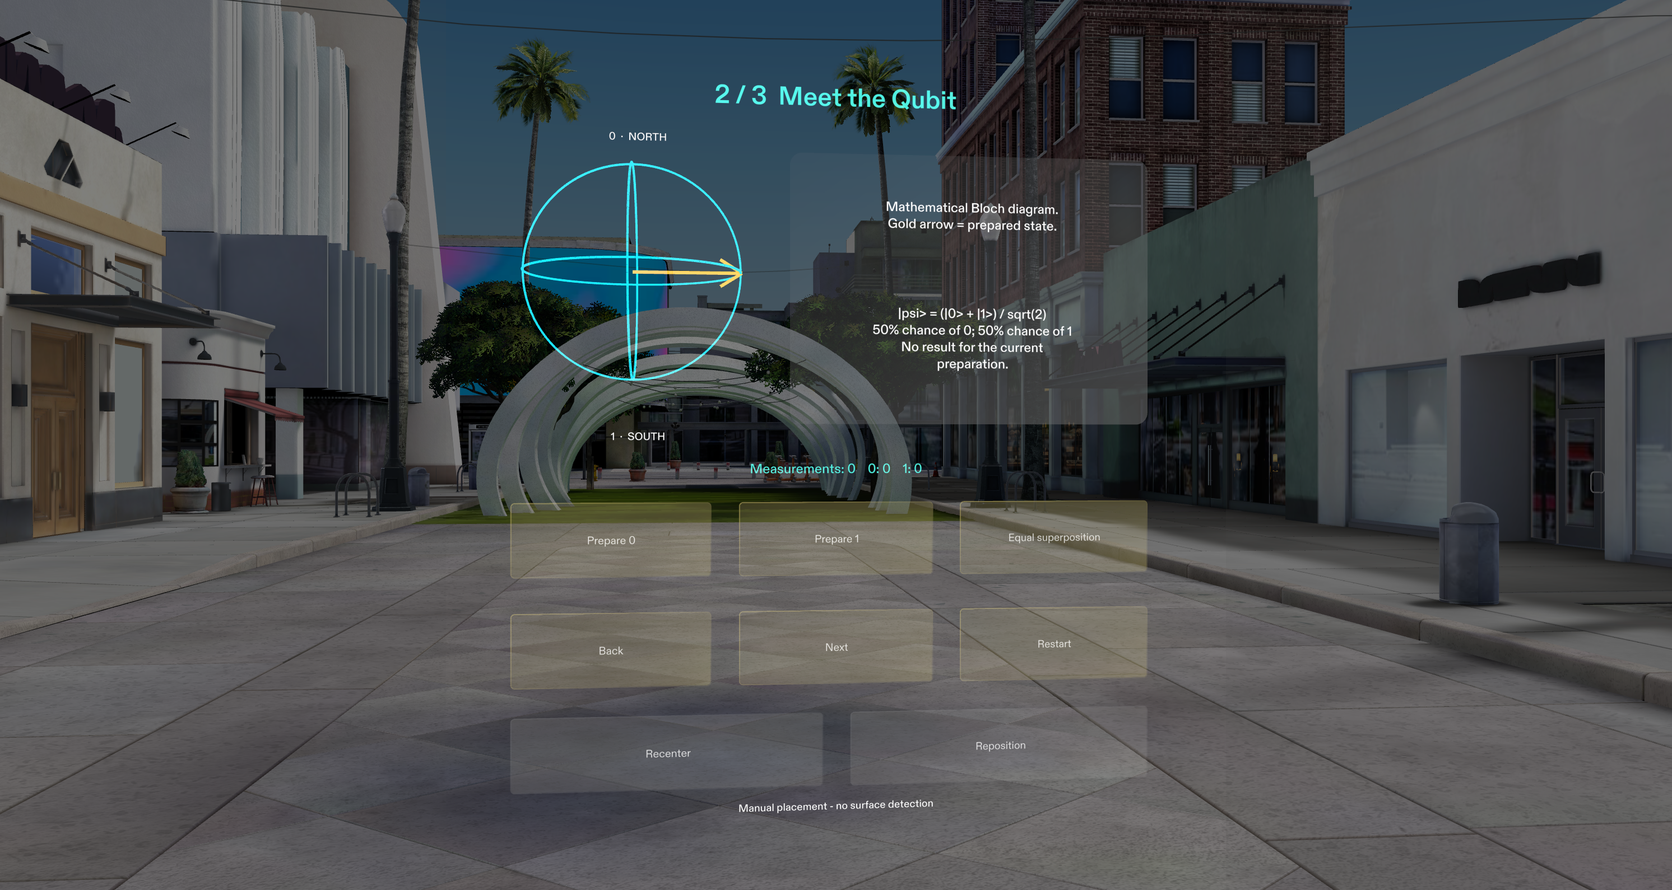
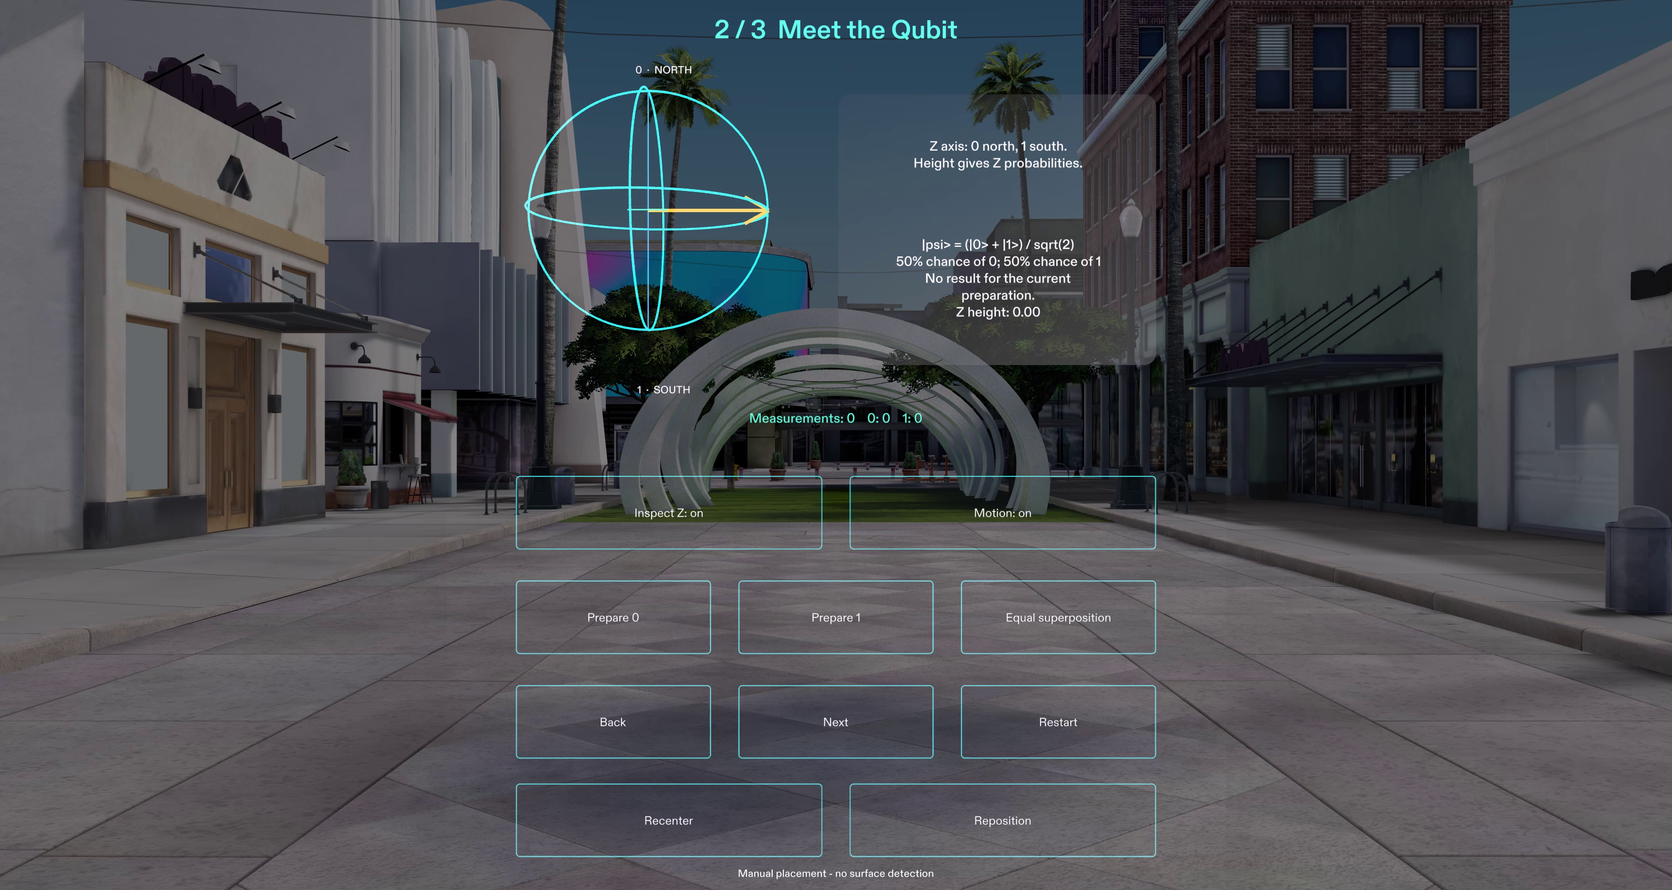
Finish immersive demonstration and verified submission materials

diff --git a/docs/public/DEMO_SCRIPT.md b/docs/public/DEMO_SCRIPT.md
@@ -1,32 +1,74 @@
-# Demonstration narration and shot list
+# Demonstration V3: captions and optional narration
 
-Preserved QAR-008 fallback: **2:45**, with a 15-second margin below three minutes.
-QAR-009 source adds features not depicted here; its new demonstration is in preparation.
-The shot
-boundaries match the silent captioned QAR-008 export. The narration below is
-optional prepared copy; it is not recorded audio or an uploaded video. Use genuine Lens Studio
-preview footage. Read naturally and leave time for the indicated selections.
+The preferred genuine QAR-009 V3 cut is **2 minutes 45 seconds**, 1920 × 1080,
+H.264, 30 fps, silent with English captions. It uses the actual Lens Studio
+preview, supported coordinate-pinch input and the simulated Sunlit Outdoor
+environment. No platform upload is represented as complete. The owner controls
+YouTube publication and Devpost submission.
 
-| Time | Genuine preview actions | Narration |
+Preferred file: `Quantum-AR-Explorer-QAR009-demo-v3.mp4`. The separate silent
+`Quantum-AR-Explorer-QAR009-narration-ready.mp4` has exactly the same shots and
+timing, with title/context disclosure but without explanatory body captions.
+An English SRT is available locally. No spoken audio exists in either export.
+The cues below can guide an owner-approved recorded narrator; they are not a
+claim of recorded narration. Use natural phrasing and allow pauses for selections.
+
+| Time | Genuine preview footage | Learning purpose |
 |---|---|---|
-| 0:00–0:16 | Open on a genuine qubit view. Move the simulated viewpoint around the fixed station. Label this a preview excerpt; the guided lesson follows. | “A miniature quantum laboratory, placed in your surroundings. The viewpoint moves; the laboratory stays put. This is Quantum AR Explorer in the real Lens Studio preview, using a simulated environment.” |
-| 0:16–0:29 | Begin the guided lesson at Meet the Bit. Switch 0 / 1, then Next. | “The lesson starts with a classical bit: one definite value, zero or one. Change it, then move on to a qubit.” |
-| 0:29–0:54 | Prepare 0, 1, then equal superposition. Keep the diagram, poles and probabilities visible. | “The Bloch sphere is a mathematical state diagram. Zero points north; one points south. An equal superposition points around the equator. Measuring that state in this basis has a fifty percent chance of either result.” |
-| 0:54–1:12 | Measure equal superposition. Pause on the actual outcome. Measure again without preparing. | “Measurement gives one definite result and collapses the state. Measure again without preparing, and the result stays the same. This is different from starting a fresh experiment.” |
-| 1:12–1:19 | Run ten fresh trials. Pause on the real accumulated counters. | “Fresh trials prepare again. Small samples need not split evenly.” |
-| 1:19–1:56 | Open Reposition, move deliberately, choose Done and Recenter. Preserve the experiment. | “The placement controls move the whole teaching station without resetting the experiment. Recenter brings it in front of the viewpoint. Placement is manual; the Lens does not recognize a table or surface.” |
-| 1:56–2:23 | Show an incorrect challenge answer and its explanation, then the correct answer and completion. | “A short challenge checks the idea. Mistakes receive an explanation and another try. Fresh equal superpositions give each outcome a fifty percent chance. The goal is understanding through experimentation.” |
-| 2:23–2:29 | Restart; show the cleared counters and first stage. | “Restart clears the lesson and results for the next learner.” |
-| 2:29–2:45 | Finish on a genuine quantum-state view. | “Prepare. Measure. Discover. A difficult concept becomes an experiment you can explore. This is a classical simulation; physical glasses testing remains future work.” |
+| 0:00–0:16 | Labeled optional-lab phase excerpt and genuine simulated-viewpoint movement | Same measurement odds can describe different states; station fixed in world space. |
+| 0:16–0:28 | Meet the Bit; switch 0 / 1 | A classical bit has one definite value. |
+| 0:28–0:52 | Prepare qubit 0, 1 and equal superposition | Mathematical Bloch diagram and Z-basis probabilities. |
+| 0:52–1:04 | Measure, then repeat; actual results 0, 0 | Measurement collapses the state; repeating preserves that result. |
+| 1:04–1:14 | Ten fresh trials; real cumulative counts 12 / 7 / 5 | Fresh trials prepare again; these totals include the earlier two measurements. |
+| 1:14–1:22 | Reposition, Done, Recenter | Manual placement preserves the experiment; no surface recognition. |
+| 1:22–1:42 | Challenge, correction and completion | Feedback addresses a probability misconception. |
+| 1:42–2:26 | Optional Gate Lab: reset to 0, compare H-Z-H with H-H; measure 1 then 0 | A relative-phase difference changes a later outcome. |
+| 2:26–2:34 | Return to preserved lesson, then Restart | Independent lab state; clear recovery for another learner. |
+| 2:34–2:45 | Qubit superposition closing view | Prepare, measure and discover; classical simulation and untested glasses. |
 
-Do not narrate a predetermined 0 or 1 for a superposition outcome. Let the actual
-result appear. Use the current visible labels; open the additional control page
-when required. Do not hide a failed selection with a claim it worked. Restart
-before another take if the sequence diverges.
+| Time | English caption / optional narration cue |
+|---|---|
+| 0:00.0–0:05.0 | Same odds. Different states. (Optional lab excerpt) |
+| 0:05.0–0:10.0 | Quantum computing can feel abstract. |
+| 0:10.0–0:16.0 | Make it an experiment in your surroundings. |
+| 0:16.0–0:22.0 | A classical bit has one definite value: 0 or 1. |
+| 0:22.0–0:28.0 | Change the bit, then explore a qubit. |
+| 0:28.0–0:34.0 | A mathematical state diagram: 0 north, 1 south. |
+| 0:34.0–0:43.0 | Prepare 0 or 1 for a certain Z-measurement outcome. |
+| 0:43.0–0:49.0 | Equal superposition predicts 50% for each Z result. |
+| 0:49.0–0:52.0 | Now measure the prepared state. |
+| 0:52.0–0:58.0 | Measurement returns a definite result and collapses the state. |
+| 0:58.0–1:04.0 | Repeat without preparing: the outcome stays 0. |
+| 1:04.0–1:09.0 | Fresh trials prepare again for each measurement. |
+| 1:09.0–1:14.0 | Totals: 7 zeros and 5 ones, including the earlier two measurements. |
+| 1:14.0–1:22.0 | Manual placement preserves the experiment. No surface detection. |
+| 1:22.0–1:29.0 | Try a prediction; mistakes get an explanation and a retry. |
+| 1:29.0–1:35.0 | Fresh equal superpositions have 50% for each outcome. |
+| 1:35.0–1:42.0 | Three stages explored. An optional discovery follows. |
+| 1:42.0–1:50.0 | Optional Gate Lab: reset to 0, then explore. |
+| 1:50.0–1:55.0 | H creates equal superposition: 50% for either Z result. |
+| 1:55.0–2:01.0 | Z changes relative phase. Z-measurement odds stay 50/50. |
+| 2:01.0–2:06.0 | Apply another H to make outcome 1 certain. |
+| 2:06.0–2:10.5 | Measure the prepared state: 1. |
+| 2:10.5–2:18.0 | Reset. Compare H followed by H, without Z. |
+| 2:18.0–2:26.0 | H, H: expect 0, then measure to test it. |
+| 2:26.0–2:30.0 | Return to the preserved beginner experiment. |
+| 2:30.0–2:34.0 | Restart clears the lesson and counters. |
+| 2:34.0–2:39.0 | A difficult idea becomes an experiment you can explore. |
+| 2:39.0–2:45.0 | Prepare. Measure. Discover. Classical simulation; glasses untested. |
 
-The opening excerpt changes the video presentation order, not the product's
-Bit → Qubit → Measurement flow. Record the real viewpoint movement; do not replace
-it with a pan across a still image. Use landscape framing and large, concise
-captions for desktop viewing. Spoken narration is optional; do not claim it is
-recorded when the export is silent. Only measured encoded duration establishes
-the final runtime; adjust the shot boundaries to the actual saved take.
+The opening is a real excerpt reordered for presentation. The product still begins
+Bit → Qubit → Measurement. Idle intervals are trimmed at ordinary speed; the whole
+native frame is scaled without cropping into a landscape canvas with outer captions.
+No interactions, scientific results, or camera motion are fabricated.
+
+The first measurement is not predetermined. This take produced 0, then repeated 0.
+The ten fresh trials produced five of each; cumulative totals became seven zeros
+and five ones across twelve measurements, including the earlier two. A new take
+can differ. H-Z-H from 0 measured 1; H-H from 0 measured 0. Return preserved the
+beginner experiment; Restart cleared it.
+
+The QAR-008 2:45 fallback and all original takes remain preserved. V3 reduces
+placement from 37 seconds to eight, making room for the phase comparison. Its
+advanced section is denser; the learner can finish without entering the optional
+lab. Spoken narration, mobile-device playback and physical glasses are unverified.

diff --git a/docs/public/DEMO_WALKTHROUGH.md b/docs/public/DEMO_WALKTHROUGH.md
@@ -1,39 +1,38 @@
 # Preview demonstration outline
 
-Preserved QAR-008 fallback cut: **2 minutes 45 seconds**, leaving room below the competition's
-[three-minute video limit](https://learn-specs.devpost.com/resources). Record the
-actual Lens Studio preview. Local recording and platform upload are separate steps;
-the owner handles upload. This outline does not represent an uploaded entry.
-It describes the historical fallback; a new demonstration of the QAR-009 features
-is being prepared.
+The preferred genuine QAR-009 V3 cut is **2 minutes 45 seconds**, 1920 × 1080,
+H.264, 30 fps, silent with English captions. It uses the actual Lens Studio
+preview, supported coordinate-pinch input and the simulated Sunlit Outdoor
+environment. No platform upload is represented as complete. The owner controls
+YouTube publication and Devpost submission.
 
-Use the complete [timed narration](DEMO_SCRIPT.md) and
-[recording procedure](RECORDING_GUIDE.md). Actual capture status and measured
-duration, when available, are in [verification](VERIFICATION.md).
-
-| Time | Show | Explain |
+| Time | Genuine preview footage | Learning purpose |
 |---|---|---|
-| 0:00–0:16 | A genuine qubit excerpt and real simulated-viewpoint motion | The laboratory stays in world space as the viewpoint moves. Label the simulated context and excerpt; guided flow follows. |
-| 0:16–0:29 | Meet the Bit; switch 0 / 1 | A classical bit has one definite value. |
-| 0:29–0:54 | Meet the Qubit; prepare 0, 1 and equal superposition | Mathematical Bloch diagram: north is 0, south is 1; equal superposition gives each Z result 50% probability. |
-| 0:54–1:12 | Measure, then repeat without preparing | A definite outcome collapses the state. Repeating that measurement keeps the result. |
-| 1:12–1:19 | Run ten fresh trials; pause on real counters | Each trial prepares again. A small sample need not split evenly. |
-| 1:19–1:56 | Reposition deliberately, Done and Recenter | Manual world placement preserves the experiment; no table recognition. |
-| 1:56–2:23 | Challenge, explanatory feedback and completion | The learner can correct a probability misconception. |
-| 2:23–2:29 | Restart and cleared counters | Another learner can begin the three-stage lesson. |
-| 2:29–2:45 | A strong genuine quantum-state closing view | Prepare, measure and discover. Classical simulation; physical glasses remain untested. |
+| 0:00–0:16 | Labeled optional-lab phase excerpt and genuine simulated-viewpoint movement | Same measurement odds can describe different states; station fixed in world space. |
+| 0:16–0:28 | Meet the Bit; switch 0 / 1 | A classical bit has one definite value. |
+| 0:28–0:52 | Prepare qubit 0, 1 and equal superposition | Mathematical Bloch diagram and Z-basis probabilities. |
+| 0:52–1:04 | Measure, then repeat; actual results 0, 0 | Measurement collapses the state; repeating preserves that result. |
+| 1:04–1:14 | Ten fresh trials; real cumulative counts 12 / 7 / 5 | Fresh trials prepare again; these totals include the earlier two measurements. |
+| 1:14–1:22 | Reposition, Done, Recenter | Manual placement preserves the experiment; no surface recognition. |
+| 1:22–1:42 | Challenge, correction and completion | Feedback addresses a probability misconception. |
+| 1:42–2:26 | Optional Gate Lab: reset to 0, compare H-Z-H with H-H; measure 1 then 0 | A relative-phase difference changes a later outcome. |
+| 2:26–2:34 | Return to preserved lesson, then Restart | Independent lab state; clear recovery for another learner. |
+| 2:34–2:45 | Qubit superposition closing view | Prepare, measure and discover; classical simulation and untested glasses. |
 
-Before recording, refresh the preview, run the native LEAF scenarios, check that the
-whole station and text are visible, and rehearse once without narration. Keep
-private editor panels, account details, logs, keys and machine configuration out
-of the recording. The public planning brief can be shown briefly if time permits.
+The opening is a real excerpt reordered for presentation. The product still begins
+Bit → Qubit → Measurement. Idle intervals are trimmed at ordinary speed; the whole
+native frame is scaled without cropping into a landscape canvas with outer captions.
+No interactions, scientific results, or camera motion are fabricated.
 
-Use supported coordinate-pinch simulation for selections; current mouse
-activation is unverified. Desktop camera movement
-is a demonstration tool; the lesson itself is designed around supported SIK/UIKit
-hand selection without a keyboard or handheld controller.
+The first measurement is not predetermined. This take produced 0, then repeated 0.
+The ten fresh trials produced five of each; cumulative totals became seven zeros
+and five ones across twelve measurements, including the earlier two. A new take
+can differ. H-Z-H from 0 measured 1; H-H from 0 measured 0. Return preserved the
+beginner experiment; Restart cleared it.
 
-Prefer landscape framing and concise captions for desktop viewing. The opening
-excerpt does not change the product's Bit → Qubit → Measurement order. Do not
-substitute a pan across a still image for real viewpoint movement, or claim that
-a simulated environment is a physical table or tested glasses footage.
+The QAR-008 2:45 fallback and all original takes remain preserved. V3 reduces
+placement from 37 seconds to eight, making room for the phase comparison. Its
+advanced section is denser; the learner can finish without entering the optional
+lab. Spoken narration, mobile-device playback and physical glasses are unverified.
+
+See the [caption and narration script](DEMO_SCRIPT.md), [recording procedure](RECORDING_GUIDE.md), and [verification](VERIFICATION.md).

diff --git a/docs/public/VERIFICATION.md b/docs/public/VERIFICATION.md
@@ -1,6 +1,6 @@
-# Verification of the immersive product checkpoint
+# Verification of the immersive product and demonstration
 
-QAR-009, October 23, 2026. The QAR-008 source build and 2:45 landscape video
+QAR-009, October 23–24, 2026 (UTC). The QAR-008 source build and 2:45 landscape video
 remain preserved. This report distinguishes native preview, mathematical checks
 and work requiring physical glasses.
 
@@ -38,7 +38,7 @@ can be disabled or detached to retain the full beginner experience.
 | Check | Result |
 |---|---|
 | Offline application suite | 82 passed, 0 failed, none skipped |
-| Local publication-guard suite | 127 passed, 0 failed |
+| Local publication-guard suite | 146 passed, 0 failed |
 | Original native scientific modules | All seven match source exactly |
 | Additional native-model checks | 20 model cases and 11 stale-callback comparisons passed |
 | Final canonical native LEAF | 5 passed, 0 failed |
@@ -83,11 +83,36 @@ or hardware-performance guarantee.
 
 ## Demonstration and limits
 
-The current retained fallback is `Quantum-AR-Explorer-QAR008-demo-final-v2.mp4`:
-165 seconds, 1920 by 1080, H.264, 30 fps, silent with English captions. Its full
-export decoded successfully and remains hash-verified. It depicts the earlier
-QAR-008 product. A new genuine QAR-009 demonstration is being prepared; it is not
-yet represented as recorded or validated by this product checkpoint.
+The preferred local export is `Quantum-AR-Explorer-QAR009-demo-v3.mp4`:
+165 seconds, 1920 × 1080, H.264, 30 fps, 4,950 frames, silent with English captions.
+The same-timing narration-ready export is also silent and omits explanatory body
+captions. Both complete exports decoded without errors. A separate English SRT
+is available locally. No recorded or synthetic voice, music, or platform upload
+is claimed. The QAR-008 165-second fallback remains hash-verified and preserved.
+
+V3 starts with a labeled genuine phase/spatial excerpt, then follows the complete
+beginner lesson. It trims manual placement from 37 seconds to eight and includes
+the optional H-Z-H versus H-H comparison. Its real first outcome was 0, repeat 0;
+ten fresh trials brought cumulative counts to 12 measurements, seven zeros and
+five ones, including the prior two. The lab measured 1 after H-Z-H from 0 and
+0 after H-H from 0. Return preserved beginner counts; Restart cleared them.
+The original takes, diagnostic capture and all earlier exports are retained.
+
+The first new recording saved an unusable zero-byte file, with actual encoder
+sample-write errors. Its exact cause is unconfirmed. Resizing the preview to a
+verified even-dimension 2984 × 1590 capture, followed by a successful smoke capture,
+restored recording. The healthy full take decoded before editing. Edits remove
+idle intervals at ordinary speed and reorder the labeled opening excerpt. The
+full native frame is scaled without cropping into outer caption margins; results
+and native controls are not composited. Parent inspection covered 29 actual export
+frames across the story, transitions, results and captions. Mobile-device playback
+and physical-viewing legibility are unverified; use landscape playback.
+
+The frozen 68-file native build was rehashed after filming against the actual
+source-only reconstruction that passed five LEAF scenarios. Filming did not change
+native source. The 5+5 results above are those actual earlier runs, not new runs
+inferred from capture. The public screenshot is an exact decoded frame from the
+healthy full take, before measurement, with both probabilities at 50%.
 
 Coordinate pinch at fresh visible control centers and LEAF simulated IK are the
 verified native input routes. Named-target automation reported the button's own

diff --git a/docs/public/RECORDING_GUIDE.md b/docs/public/RECORDING_GUIDE.md
@@ -36,12 +36,22 @@ constitute a screen recording.
    playback while signed out, and places its actual URL in the submission. Local
    creation or agent validation does not perform or authorize that upload.
 
-The QAR-008 finishing pass used that built-in recorder and preserved its original takes.
-Its retained fallback is `Quantum-AR-Explorer-QAR008-demo-final-v2.mp4`: 2:45,
-1920 by 1080 landscape, silent, with English captions and genuine preview footage.
-The source is the built-in Sunlit Outdoor simulated environment, with actual
-preview camera movement and coordinate-pinch selections. The earlier valid
-QAR-007 export and all original takes remain preserved locally. See the
-[verification report](VERIFICATION.md) for the measured media properties and edit
-disclosure. The owner may use this export or record a new take with the narration.
-YouTube publication and Devpost submission remain owner actions.
+
+The preferred local QAR-009 V3 export is `Quantum-AR-Explorer-QAR009-demo-v3.mp4`:
+2:45, 1920 × 1080, H.264, 30 fps, silent with English captions. A separate silent
+narration-ready cut and English SRT are available locally. The source is the
+built-in Sunlit Outdoor simulated environment, with actual camera movement and
+coordinate-pinch selections. QAR-008, QAR-007 and all original takes are preserved.
+
+This recording pass encountered a genuine unusable zero-byte save and sample-write
+errors. Resizing the preview produced a working 2984 × 1590 recording; a smoke
+capture was probed, decoded and inspected before the full retake. An on-screen
+Save message does not prove a playable file. Check actual bytes, probe, full decode
+and visible content. The failure's exact cause remains unconfirmed.
+
+The final cut preserves ordinary speed and the full native frame. It trims idle
+intervals, labels the reordered opening and devotes only eight seconds to placement.
+See [verification](VERIFICATION.md) and the [actual shot list](DEMO_SCRIPT.md).
+The owner reviews the export and controls YouTube publication and Devpost submission.
+No appropriate recorded narrator was available; no voice service was purchased
+and no synthetic narrator was introduced.

diff --git a/docs/public/SUBMISSION.md b/docs/public/SUBMISSION.md
@@ -111,10 +111,11 @@ The scientific suite includes complex-state gate identities, phase-sensitive
 sequences, normalization, collapse, animation interruption and recovery. The
 original native scenarios and added visual/lab scenarios exercise the real preview.
 The current product checkpoint and its exact results are reported in
-[verification](VERIFICATION.md). Judging setup is in [Open and test](OPEN_AND_TEST.md). The preferred local demo
-remains the preserved QAR-008 2:45 silent landscape fallback while the new QAR-009
-demonstration is prepared. It contains genuine preview camera motion and a labeled
-simulated environment. Current coordinate-pinch
+[verification](VERIFICATION.md). Judging setup is in [Open and test](OPEN_AND_TEST.md). The preferred local QAR-009 V3 demo is 2:45, 1920 × 1080, 30 fps, silent with
+English captions. It shows genuine preview camera motion, the beginner lesson,
+eight seconds of manual placement and the optional H-Z-H versus H-H discovery.
+Simulated environment and input are explicitly labeled. The QAR-008 fallback
+remains preserved. Current coordinate-pinch
 input and LEAF passed; mouse activation in the landscape setup remains unverified.
 
 No physical SPECS glasses test has occurred. Preview testing establishes simulated
@@ -136,7 +137,7 @@ SpectaclesUIKit; MeshBuilder; LEAF; Node.js; Git; GitHub.
 
 Project-authored code was developed with AI coding assistance for Veristio
 Intelligence Technologies, LLC. Repository commits document project-specific
-implementation on October 23, 2026. Standard vendor template, render resources,
+implementation beginning on October 23, 2026. Standard vendor template, render resources,
 and SDK/test packages predate this project and remain vendor-owned. See
 [third-party notices](../../THIRD_PARTY_NOTICES.md) for exact resources, versions,
 and applicable terms. No other project's application source is identified as

diff --git a/README.md b/README.md
@@ -57,10 +57,11 @@ for native scenarios, package provenance and current limits, and the
 
 <img src="docs/public/preview-spatial.png" width="880" alt="Genuine Lens Studio SPECS preview showing the mathematical Bloch sphere and manual placement controls" />
 
-Historical QAR-008 desktop preview in Lens Studio's simulated Sunlit Outdoor
-environment. It is retained while the QAR-009 demonstration is prepared. Current
-source adds state transitions, axis inspection, stronger control borders and the
-optional gate lab. Physical glasses testing has not occurred.
+Genuine QAR-009 desktop preview in Lens Studio's simulated Sunlit Outdoor
+environment. The current local V3 demonstration is 2:45, 1920 × 1080, 30 fps,
+silent with English captions. It shows the lesson, brief manual placement and
+the optional phase experiment. The QAR-008 fallback remains preserved. Physical
+glasses testing has not occurred; the owner controls video upload and submission.
 
 The [submission package](docs/public/SUBMISSION.md) explains the product, audience,
 spatial design, implementation, disclosures, and remaining owner steps. Use the

diff --git a/THIRD_PARTY_NOTICES.md b/THIRD_PARTY_NOTICES.md
@@ -47,7 +47,7 @@ configuration or authentication material is distributed.
 No third-party music, generated media or remotely downloaded scene artwork was
 added for the lesson. The Bloch diagram is project-authored parametric geometry.
 
-The QAR-008 demonstration and spatial screenshot use Lens Studio's built-in
+The QAR-008 and QAR-009 demonstrations and spatial screenshots use Lens Studio's built-in
 Sunlit Outdoor interactive preview fixture. It is simulated context supplied by
 Snap, not a physical-location recording or project-authored scene artwork. The
 fixture source is not redistributed in this repository. Its depiction remains
